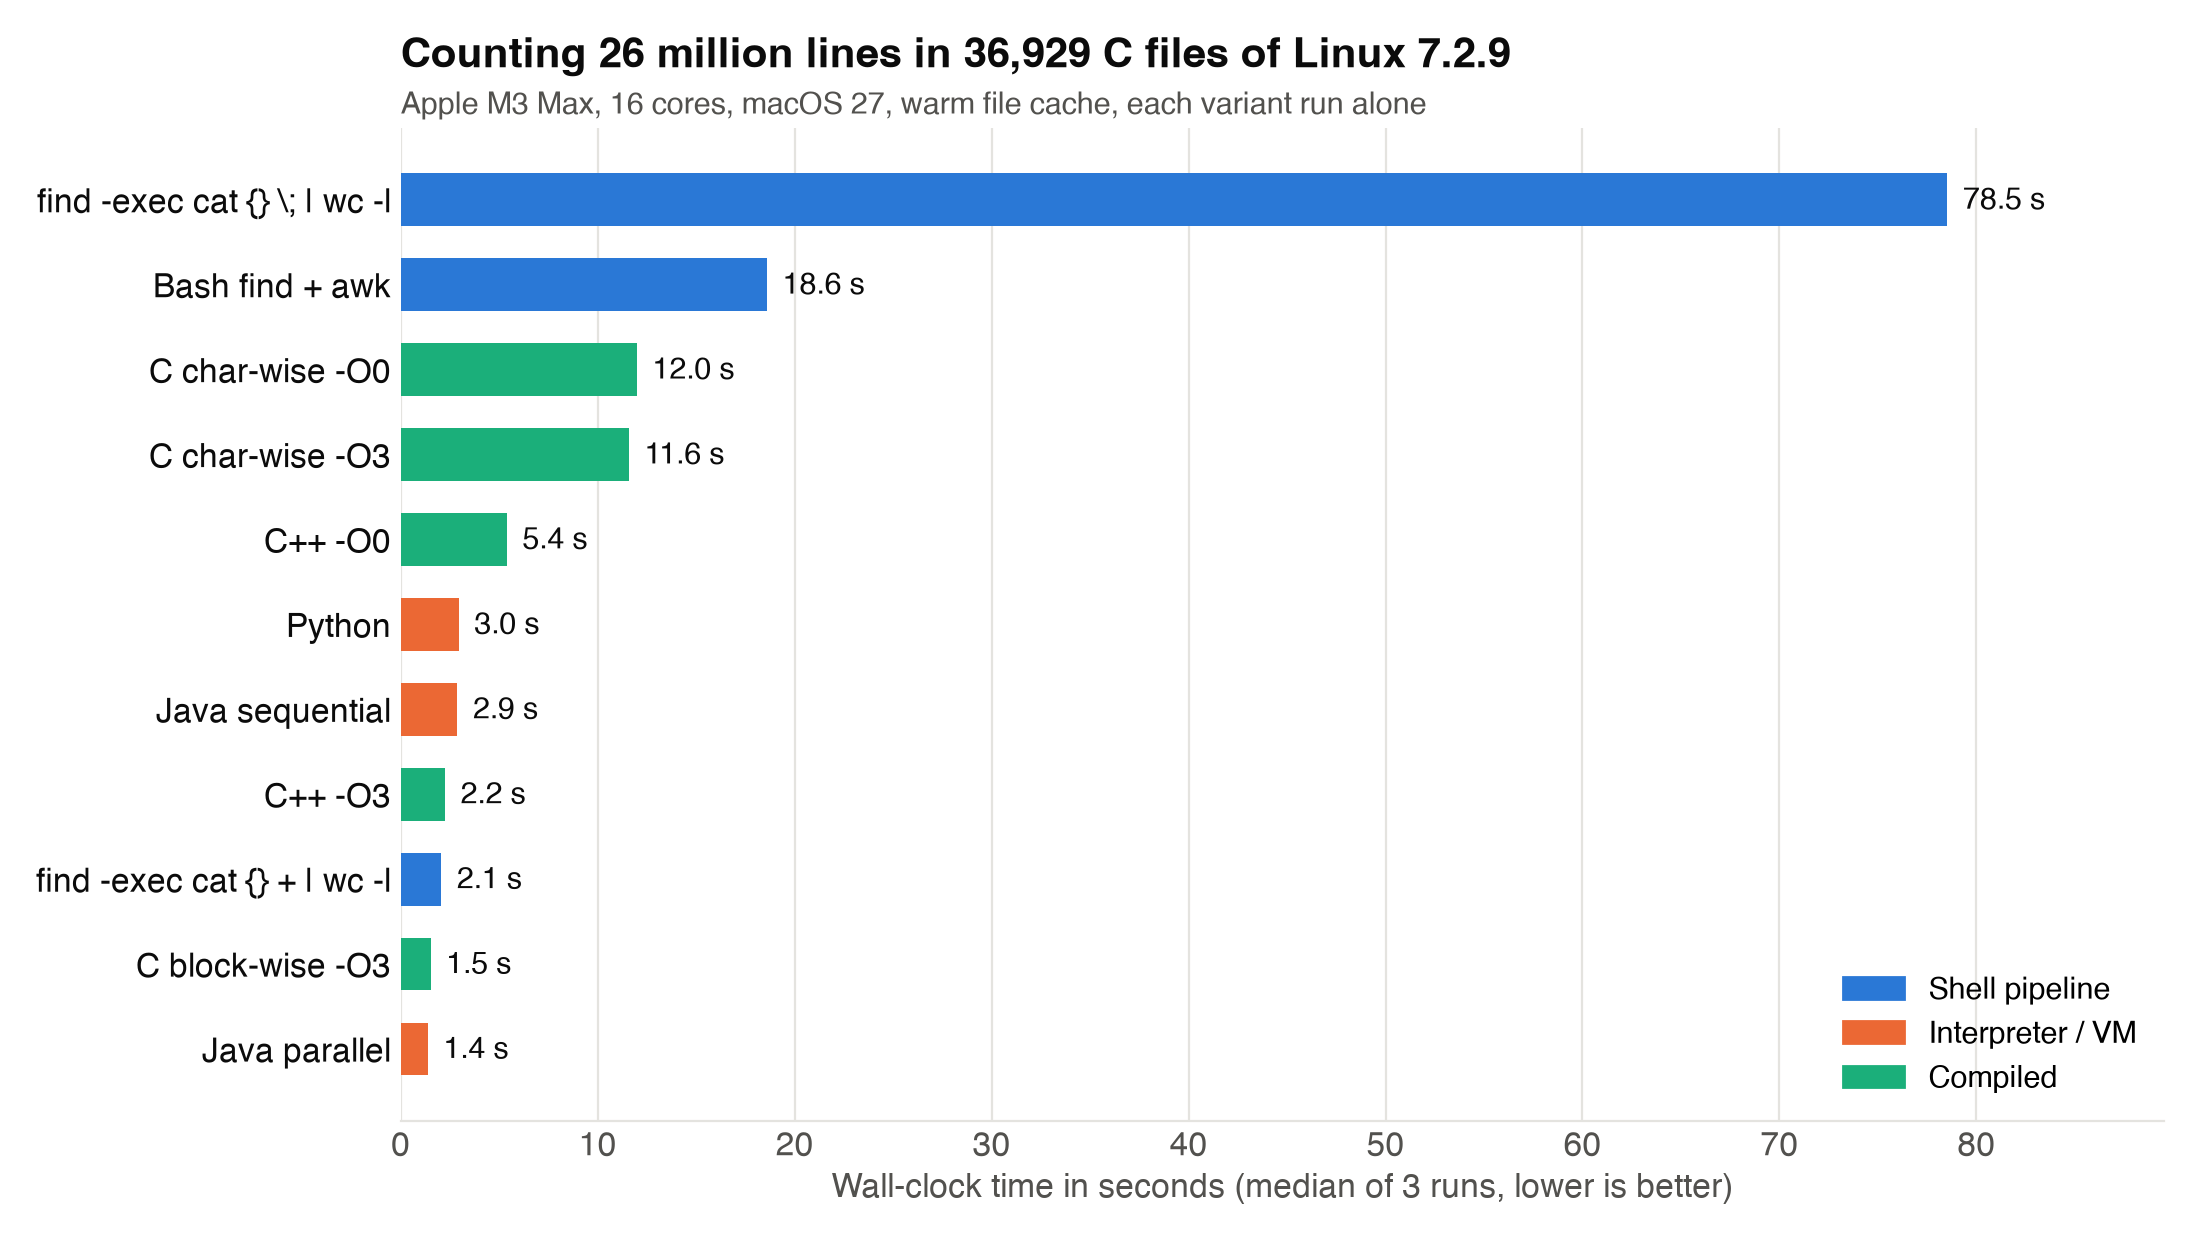
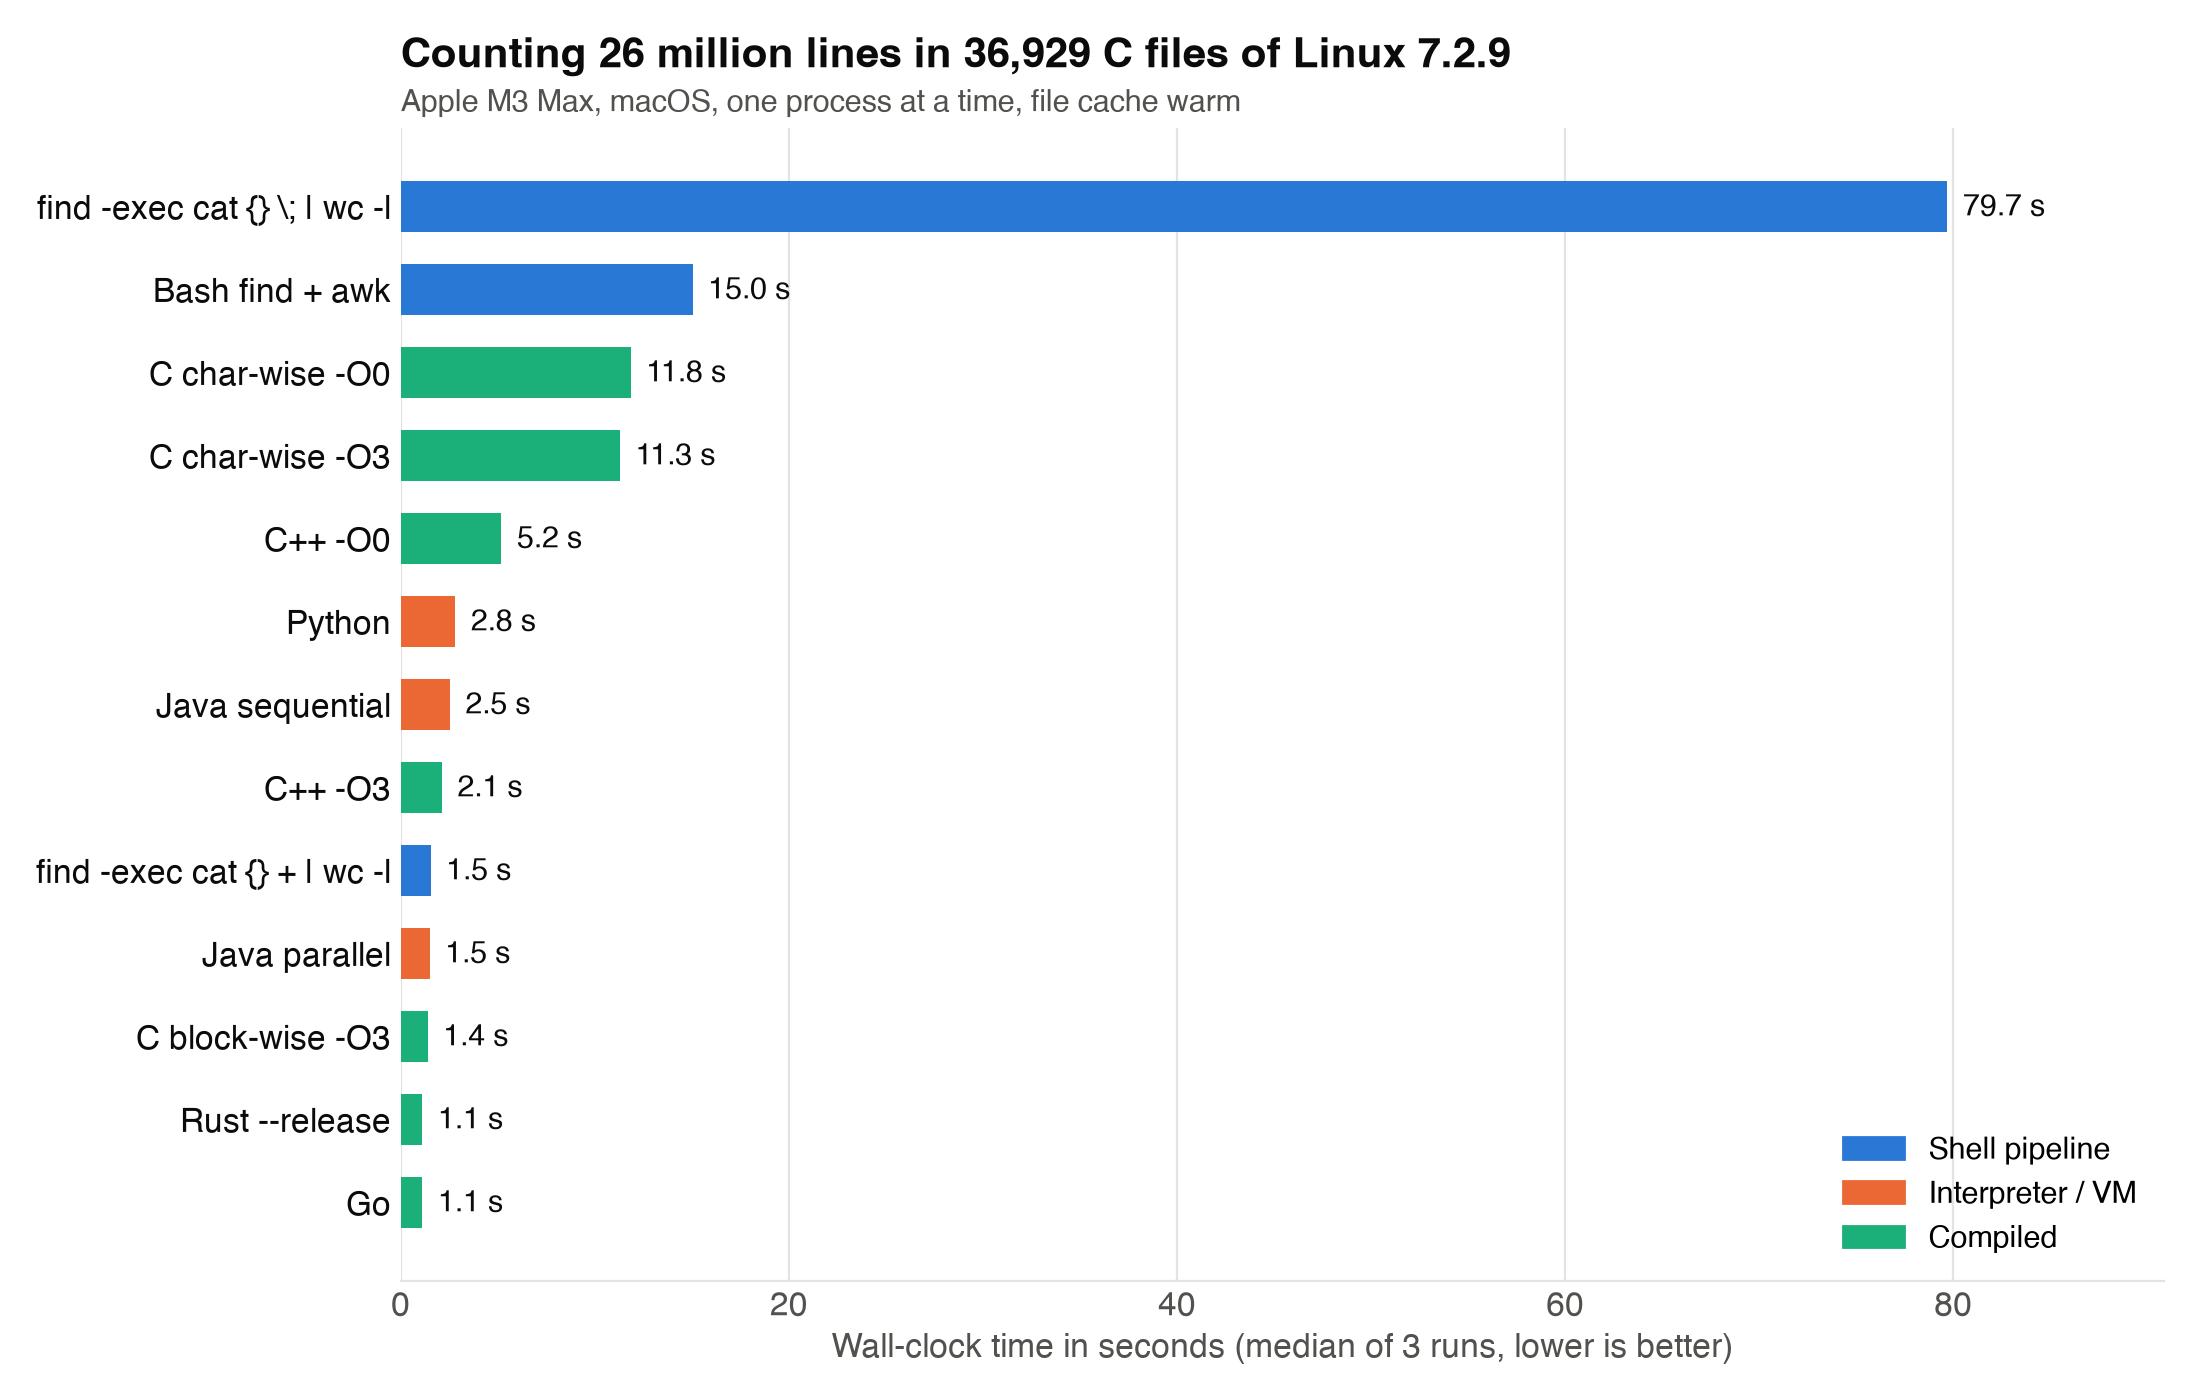
Add Go and Rust variants and rerun the benchmark
Both read files block-wise and count newline bytes, matching the
C block-wise variant. Go uses only the standard library; Rust uses
the walkdir and regex crates. Benchmark script, plot scripts, README
and both charts updated; results measured on the same M3 Max against
Linux 7.2.9.

diff --git a/RustCountLines/src/main.rs b/RustCountLines/src/main.rs
@@ -1,0 +1,50 @@
+// Count the lines of every file below a folder whose name matches a regex.
+// usage: cargo run --release -- <folderPath> <regexStr>
+use std::fs::File;
+use std::io::{self, Read};
+use std::process;
+
+use regex::Regex;
+use walkdir::WalkDir;
+
+fn count_lines(path: &std::path::Path) -> io::Result<u64> {
+    let mut file = File::open(path)?;
+    let mut buf = vec![0u8; 64 * 1024];
+    let mut lines = 0u64;
+    loop {
+        let n = file.read(&mut buf)?;
+        if n == 0 {
+            return Ok(lines);
+        }
+        lines += buf[..n].iter().filter(|&&b| b == b'\n').count() as u64;
+    }
+}
+
+fn count_lines_in_all_files(folder: &str, re: &Regex) -> u64 {
+    WalkDir::new(folder)
+        .into_iter()
+        .filter_map(Result::ok)
+        .filter(|e| e.file_type().is_file())
+        .filter(|e| re.is_match(&e.file_name().to_string_lossy()))
+        .map(|e| match count_lines(e.path()) {
+            Ok(n) => n,
+            Err(err) => {
+                eprintln!("{}: {}", e.path().display(), err);
+                0
+            }
+        })
+        .sum()
+}
+
+fn main() {
+    let args: Vec<String> = std::env::args().collect();
+    if args.len() != 3 {
+        eprintln!("usage: {} <folderPath> <regexStr>", args[0]);
+        process::exit(1);
+    }
+    let re = Regex::new(&args[2]).unwrap_or_else(|e| {
+        eprintln!("invalid regex: {e}");
+        process::exit(1);
+    });
+    println!("Total number of lines: {}", count_lines_in_all_files(&args[1], &re));
+}

diff --git a/GoCountLines/count_lines.go b/GoCountLines/count_lines.go
@@ -1,0 +1,67 @@
+// Count the lines of every file below a folder whose name matches a regex.
+// usage: go run count_lines.go <folderPath> <regexStr>
+package main
+
+import (
+	"bytes"
+	"fmt"
+	"io"
+	"io/fs"
+	"os"
+	"path/filepath"
+	"regexp"
+)
+
+func countLines(path string) (int64, error) {
+	f, err := os.Open(path)
+	if err != nil {
+		return 0, err
+	}
+	defer f.Close()
+
+	buf := make([]byte, 64*1024)
+	var lines int64
+	for {
+		n, err := f.Read(buf)
+		lines += int64(bytes.Count(buf[:n], []byte{'\n'}))
+		if err == io.EOF {
+			return lines, nil
+		}
+		if err != nil {
+			return lines, err
+		}
+	}
+}
+
+func countLinesInAllFiles(folder string, re *regexp.Regexp) (int64, error) {
+	var total int64
+	err := filepath.WalkDir(folder, func(path string, d fs.DirEntry, err error) error {
+		if err != nil {
+			return err
+		}
+		if d.Type().IsRegular() && re.MatchString(d.Name()) {
+			n, err := countLines(path)
+			if err != nil {
+				fmt.Fprintln(os.Stderr, err)
+				return nil // keep walking, like the other variants
+			}
+			total += n
+		}
+		return nil
+	})
+	return total, err
+}
+
+func main() {
+	if len(os.Args) != 3 {
+		fmt.Fprintf(os.Stderr, "usage: %s <folderPath> <regexStr>\n", os.Args[0])
+		os.Exit(1)
+	}
+	re := regexp.MustCompile(os.Args[2])
+	total, err := countLinesInAllFiles(os.Args[1], re)
+	if err != nil {
+		fmt.Fprintln(os.Stderr, err)
+		os.Exit(1)
+	}
+	fmt.Println("Total number of lines:", total)
+}

diff --git a/benchmark/plot_sizes.py b/benchmark/plot_sizes.py
@@ -25,6 +25,8 @@ VARIANTS = [
     ("C++",                         "Compiled", "CppCountLines/count_lines.cpp"),
     ("C char-wise",                 "Compiled", "CCountLines/count_lines_in_files_char.c"),
     ("C block-wise",                "Compiled", "CCountLines/count_lines_in_files_block.c"),
+    ("Go",                          "Compiled", "GoCountLines/count_lines.go"),
+    ("Rust",                        "Compiled", "RustCountLines/src/main.rs"),
 ]
 COLOR = {"Shell pipeline": "#2a78d6", "Interpreter / VM": "#eb6834", "Compiled": "#1baf7a"}
 TEXT, MUTED, GRID = "#0b0b0b", "#52514e", "#e4e3df"
@@ -46,7 +48,7 @@ sizes = [r[0] for r in rows]
 colors = [COLOR[r[2]] for r in rows]
 
 plt.rcParams.update({"font.family": "Helvetica", "font.size": 12})
-fig, ax = plt.subplots(figsize=(11, 5.2), dpi=200)
+fig, ax = plt.subplots(figsize=(11, 6), dpi=200)
 fig.patch.set_facecolor("white")
 ax.set_facecolor("white")
 

diff --git a/benchmark/plot_runtimes.py b/benchmark/plot_runtimes.py
@@ -30,6 +30,8 @@ FAMILY = {
     "C char-wise -O0": "Compiled",
     "C char-wise -O3": "Compiled",
     "C block-wise -O3": "Compiled",
+    "Go": "Compiled",
+    "Rust --release": "Compiled",
 }
 COLOR = {"Shell pipeline": "#2a78d6", "Interpreter / VM": "#eb6834", "Compiled": "#1baf7a"}
 TEXT, MUTED, GRID = "#0b0b0b", "#52514e", "#e4e3df"
@@ -40,7 +42,7 @@ medians = [m for m, _ in rows]
 colors = [COLOR[FAMILY[k]] for k in labels]
 
 plt.rcParams.update({"font.family": "Helvetica", "font.size": 12})
-fig, ax = plt.subplots(figsize=(11, 6.2), dpi=200)
+fig, ax = plt.subplots(figsize=(11, 7), dpi=200)
 fig.patch.set_facecolor("white")
 ax.set_facecolor("white")
 

diff --git a/README.md b/README.md
@@ -9,9 +9,13 @@ Programming languages used:
 - Java (Java Streams; sequential and parallel)
 - C (reading single chars and reading blocks of chars)
 - C++ (standard version C++17)
+- Go (standard library only: `filepath.WalkDir`, `regexp`, block-wise reads)
+- Rust (crates `walkdir` and `regex`, block-wise reads; build with `cargo build --release`)
 - Python
 - Bash
 
 More languages may follow.
 
 `results.txt` lists source code sizes and execution times on a typical Intel-based MacBook Pro.
+`benchmark/` contains a reproducible benchmark (`run_benchmark.sh`) plus the plot scripts and the
+latest results measured on an Apple M3 Max against the Linux 7.2.9 sources.
